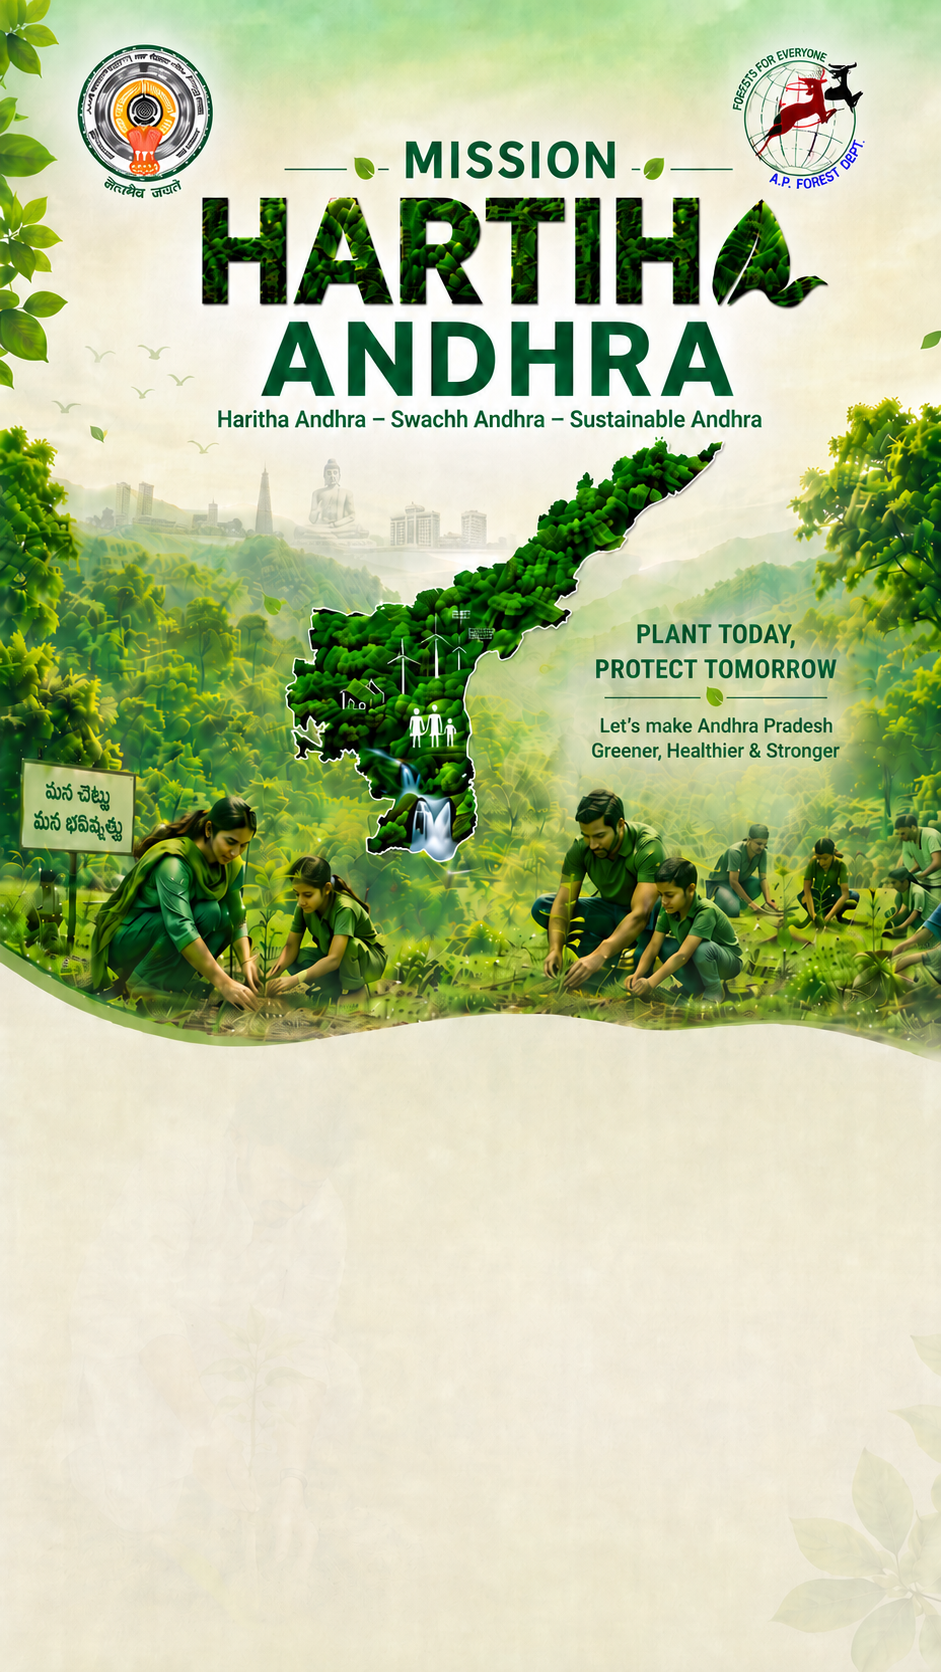
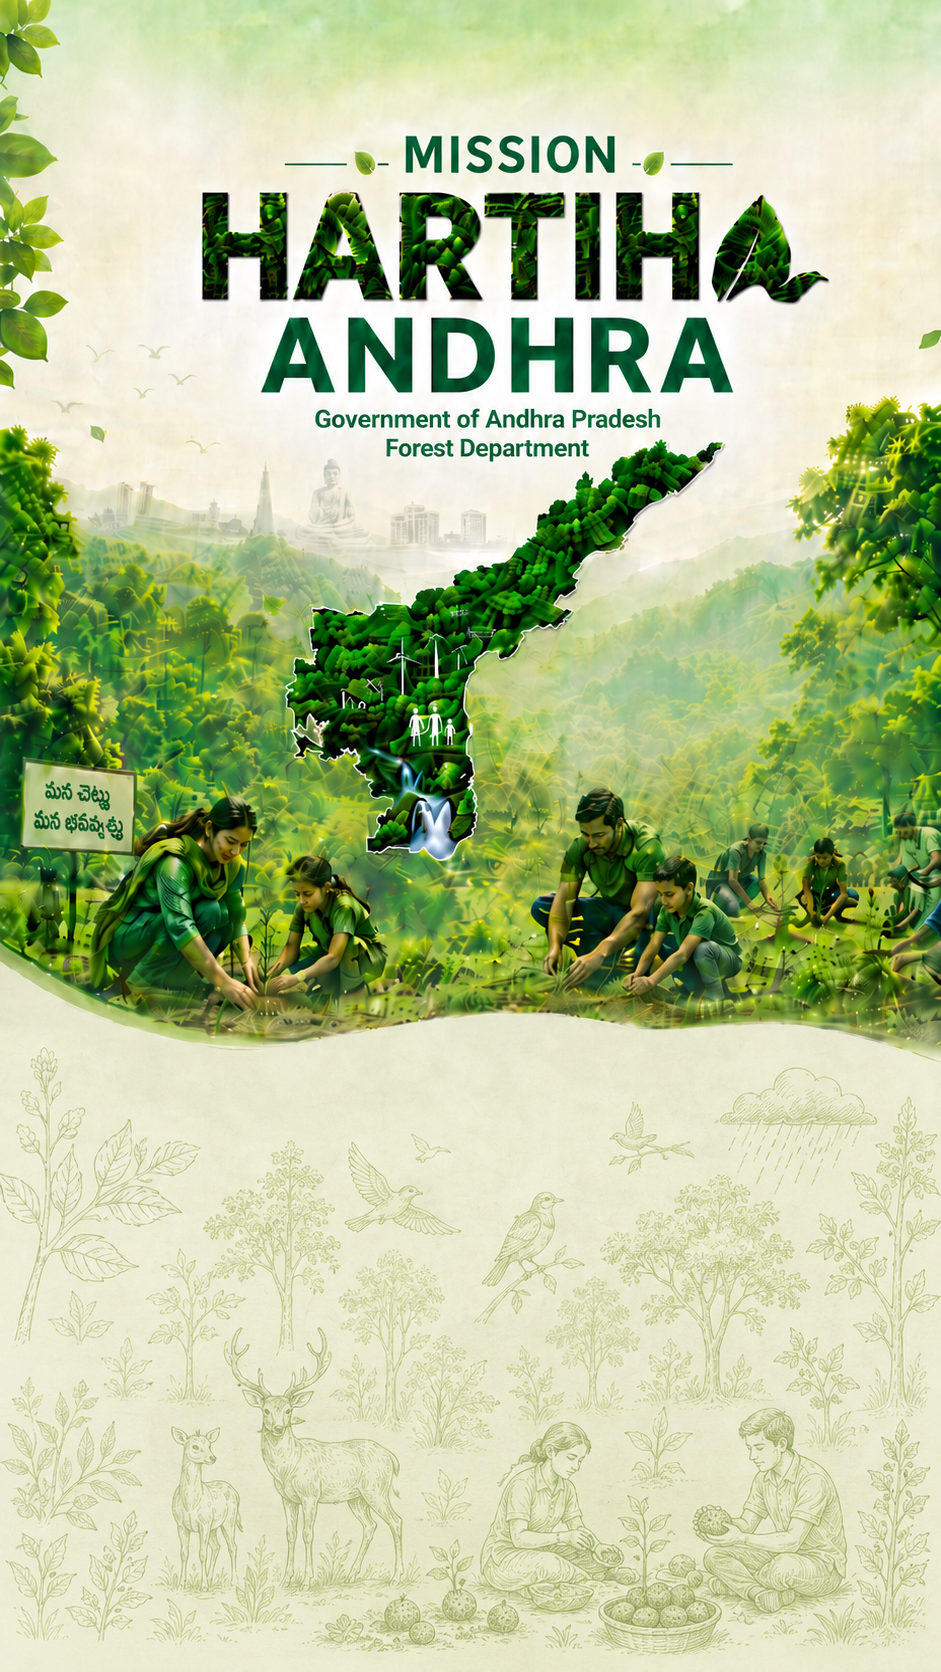
mission haritha

diff --git a/src/screens/Home.jsx b/src/screens/Home.jsx
@@ -28,7 +28,7 @@ import {
 } from '../utils/utils';
 import ImageBucketRN from '../utils/ImageBucketRN';
 import { GetSpecies, GetNewMandals, new_dist, NewVillages, GetBeat, GetCompartment, GetBlock } from '../utils/CommonFunctions';
-
+import Icon from 'react-native-vector-icons/MaterialCommunityIcons';
 const Vanamahotsav = () => {
   const dispatch = useDispatch();
   const state = useSelector((s) => s.LoginReducer);
@@ -490,19 +490,26 @@ const Vanamahotsav = () => {
   </TouchableOpacity>
 
   {images.length > 4 && (
-    <TouchableOpacity
-      onPress={() => removeImageField(index)}
-      style={{
-        marginLeft: 5,
-        padding: 2,
-        justifyContent: "center",
-        alignItems: "center",
-      }}
-    >
-    <Text style={{ color: "red", fontSize: 22 }}>🗑</Text>
-
-    </TouchableOpacity>
-  )}
+  <TouchableOpacity
+    onPress={() => removeImageField(index)}
+    style={{
+      marginLeft: 5,
+      width: 30,
+      height: 30,
+      borderRadius: 8,
+      backgroundColor: "#FF3B30",
+      justifyContent: "center",
+      alignItems: "center",
+      shadowColor: "#FF3B30",
+      shadowOffset: { width: 0, height: 2 },
+      shadowOpacity: 0.3,
+      shadowRadius: 4,
+      elevation: 4,
+    }}
+  >
+    <Icon name="trash-can-outline" size={18} color="white" />
+  </TouchableOpacity>
+)}
 </View>
               
               {imageError && (

diff --git a/src/screens/LoginCommon.jsx b/src/screens/LoginCommon.jsx
@@ -416,7 +416,7 @@ const styles = StyleSheet.create({
     letterSpacing: 0.3,
   },
   fieldBlock: {
-    marginBottom: 5,
+    marginBottom: 8,
   },
   inputWrapper: {
     minHeight: 34,

diff --git a/src/sitelayout/SiteLayout.js b/src/sitelayout/SiteLayout.js
@@ -43,7 +43,7 @@ import UserMessage from "./UserMessage";
 import Icon from "react-native-vector-icons/Feather";
 import { Ionicons, MaterialCommunityIcons } from "@expo/vector-icons";
 
-import labour_logo from "../../assets/logo2.png";
+import labour_logo from "../../assets/harithalogo.png";
 
 const { width, height } = Dimensions.get("window");
 